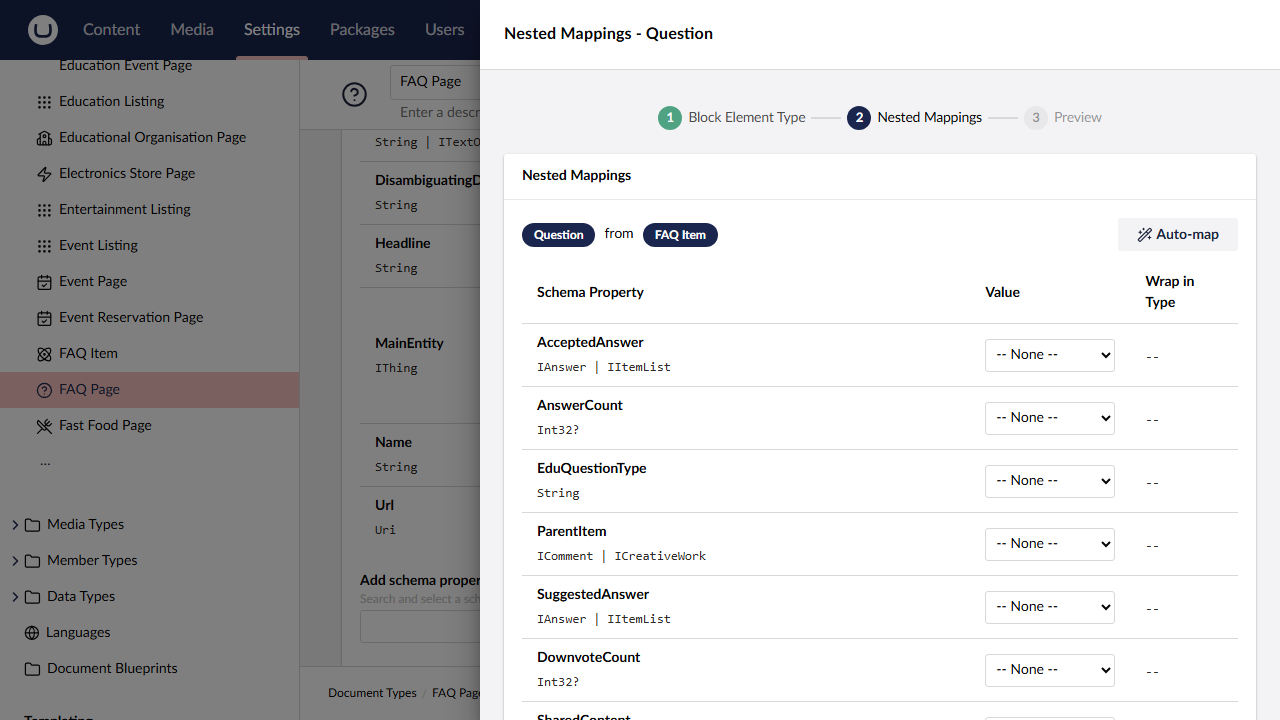
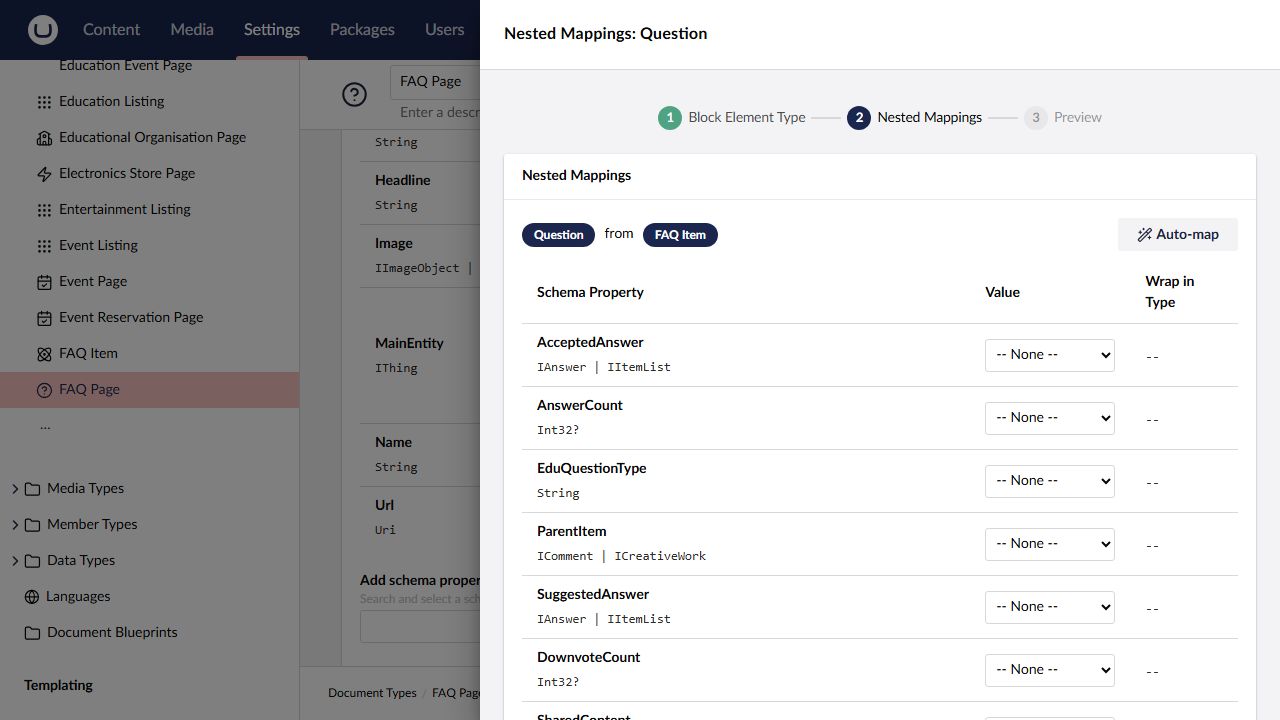
chore: regenerate doc screenshots + fix test:screenshots config
Screenshots now reflect the current state including the EN|DE language
switcher in the header. Also adds playwright.screenshots.config.ts
(a testIgnore-free config) so `npm run test:screenshots` works after
the E2E speedup commit excluded screenshots.spec.ts from the default
Playwright run.

diff --git a/src/Umbraco.Community.SchemeWeaver/App_Plugins/SchemeWeaver/playwright.screenshots.config.ts b/src/Umbraco.Community.SchemeWeaver/App_Plugins/SchemeWeaver/playwright.screenshots.config.ts
@@ -1,0 +1,40 @@
+import 'dotenv/config';
+import { defineConfig, devices } from '@playwright/test';
+import { STORAGE_STATE } from './playwright.config';
+
+/**
+ * Minimal config for `npm run test:screenshots` only. Inherits auth
+ * setup from the main config but drops testIgnore so screenshots.spec.ts
+ * is discoverable.
+ */
+export default defineConfig({
+  testDir: './tests/e2e',
+  testMatch: ['screenshots.spec.ts'],
+  timeout: 120_000,
+  expect: { timeout: 15_000 },
+  fullyParallel: false,
+  workers: 1,
+  reporter: 'list',
+  use: {
+    baseURL: process.env.URL || process.env.UMBRACO_URL || 'https://localhost:44308',
+    trace: 'off',
+    ignoreHTTPSErrors: true,
+    testIdAttribute: 'data-mark',
+  },
+  projects: [
+    {
+      name: 'setup',
+      testMatch: '**/*.setup.ts',
+    },
+    {
+      name: 'screenshots',
+      testMatch: 'screenshots.spec.ts',
+      dependencies: ['setup'],
+      use: {
+        ...devices['Desktop Chrome'],
+        ignoreHTTPSErrors: true,
+        storageState: STORAGE_STATE,
+      },
+    },
+  ],
+});
